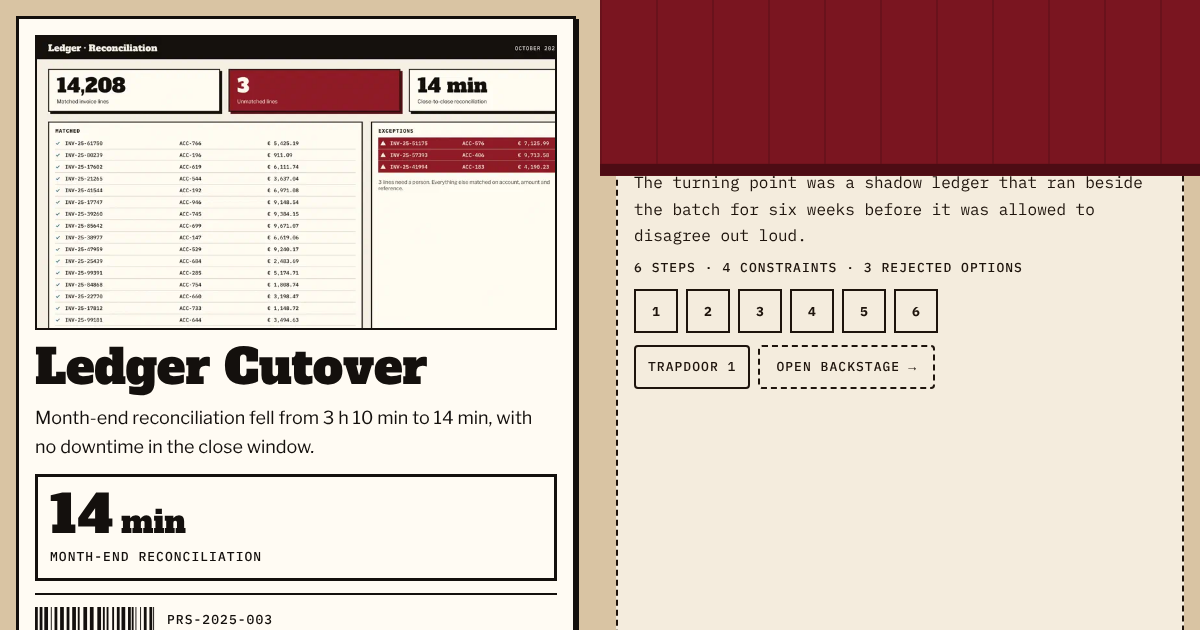
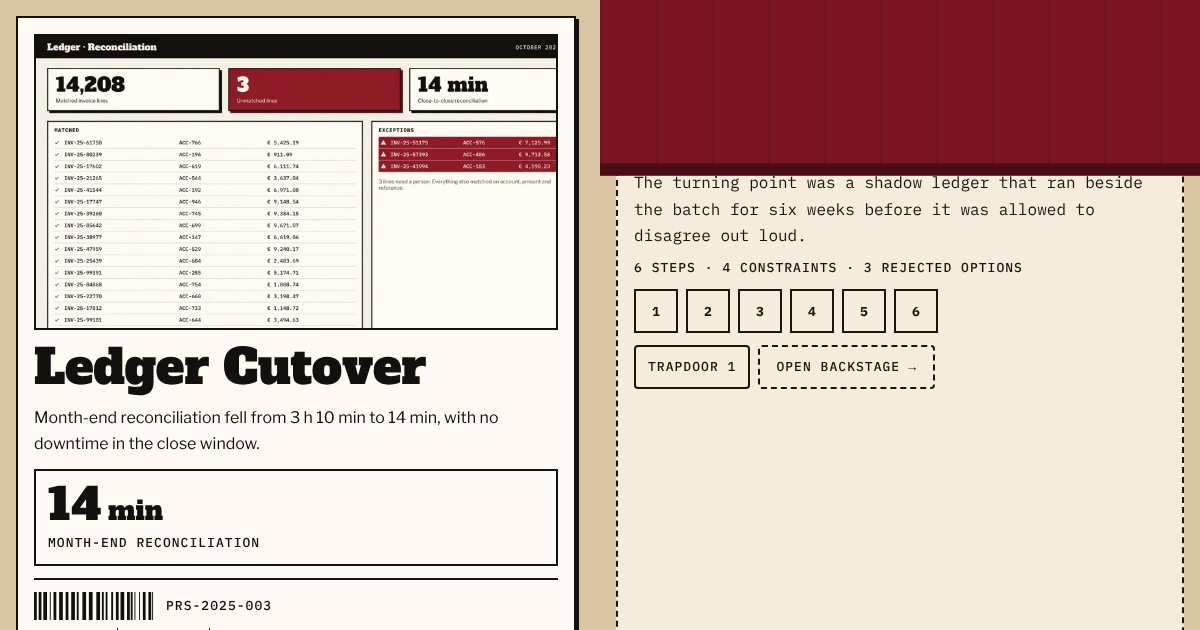
Use one size scale for both modes
Switching Performance to Backstage visibly rescaled the whole page. Two
causes: the Performance type scale, measure and 3 px card border were
larger, and the rule that sizes [data-mode] elements also matched
<html>, so the root font size (and every rem: container, spacing, type)
was 12.5% larger in Performance.

Both modes now share the Backstage sizes in tokens.css (type scale,
line heights, measure, 2 px card border); a mode changes typeface,
weight, tracking, colour, border style, radius and shadow only. The
root is no longer sized by mode, and ch-based widths are written in em
(0.6em = 1ch of IBM Plex Mono), so columns no longer change width with
the typeface. A computed-style comparison across five pages at 1280 and
360 px went from 183 size differences between modes to none, apart
from two that compare the trapdoor strip with the full report, which
are different elements.

Spec 6.3, 6.5, 6.9 and decision 28 record the revision; CLAUDE.md notes
the rule. The catalogue images are recaptured.

Claude-Session: https://claude.ai/code/session_01GjJEbgmqucpFjuE9hfsmtM

diff --git a/assets/css/tokens.css b/assets/css/tokens.css
@@ -146,49 +146,10 @@
   @media (min-width: 60rem) { :root { --gutter: 2rem; } }
   @media (min-width: 80rem) { :root { --gutter: 2.5rem; } }
 
-  /* ---------- Mode: Performance ---------- */
+  /* ---------- Size scale: one scale for both modes ---------- */
+  /* Switching mode changes typeface, colour, border style, radius and shadow, never size. */
   :root,
-  [data-mode="performance"] {
-    --font-display: var(--ff-slab);
-    --font-heading: var(--ff-sans);
-    --font-body: var(--ff-sans);
-    --font-label: var(--ff-mono);
-    --fw-display: 400;
-    --fw-heading: 800;
-    --fw-body: 400;
-    --track-display: -0.005em;
-    --lh-display: 1.04;
-    --lh-heading: 1.2;
-    --lh-body: 1.6;
-    --t-display-xl: clamp(2.5rem, 1.2rem + 5.2vw, 4.5rem);
-    --t-display-l: clamp(1.75rem, 1.1rem + 2vw, 2.5rem);
-    --t-heading: 1.375rem;
-    --t-body-l: 1.3125rem;
-    --t-body: 1.125rem;
-    --t-body-s: 0.9375rem;
-    --t-label: 0.8125rem;
-    --t-code: 0.9375rem;
-    --t-metric-xl: clamp(3rem, 1.8rem + 5vw, 6rem);
-    --t-metric-l: clamp(2.25rem, 1.5rem + 2.4vw, 3.25rem);
-    --measure: 66ch;
-    --radius: 0;
-    --card-border: var(--bw-3) solid var(--color-line);
-    --elev-0: none;
-    --elev-1: 3px 3px 0 0 var(--color-shadow);
-    --elev-2: 6px 6px 0 0 var(--color-shadow);
-    --elev-valance: 0 3px 0 0 var(--color-curtain-hem);
-  }
-
-  /* ---------- Mode: Backstage ---------- */
-  [data-mode="backstage"] {
-    --font-display: var(--ff-mono);
-    --font-heading: var(--ff-mono);
-    --font-body: var(--ff-mono);
-    --font-label: var(--ff-mono);
-    --fw-display: 700;
-    --fw-heading: 700;
-    --fw-body: 400;
-    --track-display: -0.02em;
+  [data-mode] {
     --lh-display: 1.12;
     --lh-heading: 1.3;
     --lh-body: 1.65;
@@ -202,13 +163,42 @@
     --t-code: 0.9375rem;
     --t-metric-xl: clamp(2.5rem, 1.5rem + 4vw, 4.5rem);
     --t-metric-l: clamp(2rem, 1.4rem + 2vw, 2.75rem);
-    --measure: 72ch;
+    --measure: 43.2em; /* 72ch of IBM Plex Mono, so the column is the same width in both typefaces */
+    --elev-0: none;
+    --elev-valance: 0 3px 0 0 var(--color-curtain-hem);
+  }
+
+  /* ---------- Mode: Performance ---------- */
+  :root,
+  [data-mode="performance"] {
+    --font-display: var(--ff-slab);
+    --font-heading: var(--ff-sans);
+    --font-body: var(--ff-sans);
+    --font-label: var(--ff-mono);
+    --fw-display: 400;
+    --fw-heading: 800;
+    --fw-body: 400;
+    --track-display: -0.005em;
+    --radius: 0;
+    --card-border: var(--bw-2) solid var(--color-line);
+    --elev-1: 3px 3px 0 0 var(--color-shadow);
+    --elev-2: 6px 6px 0 0 var(--color-shadow);
+  }
+
+  /* ---------- Mode: Backstage ---------- */
+  [data-mode="backstage"] {
+    --font-display: var(--ff-mono);
+    --font-heading: var(--ff-mono);
+    --font-body: var(--ff-mono);
+    --font-label: var(--ff-mono);
+    --fw-display: 700;
+    --fw-heading: 700;
+    --fw-body: 400;
+    --track-display: -0.02em;
     --radius: 4px;
     --card-border: var(--bw-2) dashed var(--color-line);
-    --elev-0: none;
     --elev-1: none;
     --elev-2: none;
-    --elev-valance: 0 3px 0 0 var(--color-curtain-hem);
   }
 
   /* ---------- Reduced motion ---------- */

diff --git a/assets/css/pages/home.css b/assets/css/pages/home.css
@@ -1,6 +1,6 @@
 .intro{display:grid;gap:var(--space-5);padding-block:var(--space-7) var(--space-5)}
-.intro__headline{max-width:14ch}
-.intro__lede{margin-top:var(--space-4);max-width:52ch}
+.intro__headline{max-width:8.4em}
+.intro__lede{margin-top:var(--space-4);max-width:31.2em}
 .intro__key{display:none}
 .intro__keyline{margin-top:var(--space-4);display:flex;flex-wrap:wrap;gap:var(--space-2) var(--space-4)}
 .intro__keyline>span{display:inline-flex;align-items:center;gap:var(--space-2)}
@@ -11,7 +11,7 @@
 .programme{margin-block:var(--space-7)}
 .stage-note{margin-block:var(--space-8)}
 .stage-note__grid{display:grid;gap:var(--space-6);margin-top:var(--space-3)}
-.stage-note__lede{margin-bottom:var(--space-3);max-width:24ch}
+.stage-note__lede{margin-bottom:var(--space-3);max-width:14.4em}
 .stage-note .contact{margin:0}
 @media (min-width:60rem){
   .intro{grid-template-columns:8fr 4fr;column-gap:var(--space-8);align-items:start}

diff --git a/assets/css/components/stage.css b/assets/css/components/stage.css
@@ -69,7 +69,7 @@
   html:not(.js) .drape-wrap{display:none}
   .drape{height:100%;display:flex;align-items:center;justify-content:center;padding:var(--space-6);pointer-events:auto;cursor:pointer;background:var(--color-curtain) repeating-linear-gradient(90deg,rgba(0,0,0,.14) 0 2px,transparent 2px 56px);color:var(--color-on-curtain);border-bottom:12px solid var(--color-curtain-hem);transform:translateY(var(--curtain-lift,0%))}
   .drape.is-moving{will-change:transform}
-  .drape__text{max-width:22ch;text-align:center}
+  .drape__text{max-width:13.2em;text-align:center}
   html.js[data-mode=performance]{--curtain-lift:0%}
   html.js[data-mode=backstage]{--curtain-lift:calc(-100% + 12px)}
   html.js[data-mode=backstage] .drape{pointer-events:none}

diff --git a/assets/css/base.css b/assets/css/base.css
@@ -1,5 +1,5 @@
 html{scroll-padding-top:4rem;scroll-behavior:auto;background:var(--color-bg)}
-body,[data-mode]{color:var(--color-fg);font-family:var(--font-body);font-weight:var(--fw-body);font-size:var(--t-body);line-height:var(--lh-body)}
+body,[data-mode]:not(:root){color:var(--color-fg);font-family:var(--font-body);font-weight:var(--fw-body);font-size:var(--t-body);line-height:var(--lh-body)}
 body{background:var(--color-bg);min-height:100vh;display:flex;flex-direction:column;font-kerning:normal}
 main{flex:1 0 auto;outline:0}
 h1,h2,h3,h4{font-family:var(--font-heading);font-weight:var(--fw-heading);line-height:var(--lh-heading);font-size:var(--t-heading)}

diff --git a/assets/css/pages/case.css b/assets/css/pages/case.css
@@ -7,7 +7,7 @@ html.js[data-mode=performance] .trapdoor-strip,.home-strip .trapdoor-strip{displ
 .case-head{padding-block:var(--space-6) var(--space-5)}
 .case-head__top{display:flex;flex-wrap:wrap;align-items:center;gap:var(--space-2) var(--space-5)}
 .case-head__back{display:inline-flex;align-items:center;gap:var(--space-2);min-height:var(--target);color:var(--color-fg);text-decoration:none}
-.case-head__title{margin-top:var(--space-4);max-width:16ch}
+.case-head__title{margin-top:var(--space-4);max-width:9.6em}
 .case-head__summary{margin-top:var(--space-4);max-width:var(--measure)}
 .case__barcode{margin-block:var(--space-5)}
 .layer{scroll-margin-top:4rem}

diff --git a/assets/css/layout.css b/assets/css/layout.css
@@ -6,8 +6,8 @@ html.js .no-js-only{display:none!important}
 .skip-link:focus{transform:none}
 .block{margin-block:var(--space-7)}
 .page-head{padding-block:var(--space-7) var(--space-6)}
-.page-head .lede{margin-top:var(--space-4);max-width:52ch}
-.page-title{max-width:20ch}
+.page-head .lede{margin-top:var(--space-4);max-width:31.2em}
+.page-title{max-width:12em}
 .prose-page{padding-block:var(--space-7)}
 .prose-page .prose{margin-top:var(--space-6)}
 .grid{display:grid;gap:var(--space-6)}

diff --git a/assets/css/pages/about.css b/assets/css/pages/about.css
@@ -1,5 +1,5 @@
 .about{display:grid;gap:var(--space-7);padding-block:var(--space-7)}
-.about__statement{max-width:18ch}
+.about__statement{max-width:10.8em}
 .about__byline{display:flex;align-items:center;gap:var(--space-4);margin-top:var(--space-5)}
 .about__portrait{width:96px;height:96px;border:var(--card-border)}
 .method{list-style:none;padding:0;display:grid;gap:var(--space-4);margin-top:var(--space-3)}

diff --git a/stitch_markdown_prestige_system_designer/prestige_design.md b/stitch_markdown_prestige_system_designer/prestige_design.md
@@ -1526,20 +1526,22 @@ The label face is identical in both modes on purpose: it is the printer on the s
 
 **Scale** (fluid values are `clamp(min, preferred, max)`; the preferred part scales between 360 and about 1015 px of viewport)
 
-| Role | Token | Performance | Backstage | Used for |
-|---|---|---|---|---|
-| Display XL | `--t-display-xl` | `clamp(2.5rem, 1.2rem + 5.2vw, 4.5rem)` (40 → 72 px), lh 1.04, tracking −0.005 em | `clamp(1.75rem, 1rem + 2.6vw, 2.75rem)` (28 → 44 px), lh 1.12, tracking −0.02 em | H1 |
-| Display L | `--t-display-l` | `clamp(1.75rem, 1.1rem + 2vw, 2.5rem)` (28 → 40 px), lh 1.1 | `clamp(1.375rem, 1rem + 1.2vw, 1.75rem)` (22 → 28 px), lh 1.2 | H2 |
-| Heading | `--t-heading` | 1.375 rem (22 px), lh 1.2 | 1.125 rem (18 px), lh 1.3 | H3, step titles |
-| Body large | `--t-body-l` | 1.3125 rem (21 px), lh 1.5 | 1.125 rem (18 px), lh 1.55 | Lede, summary |
-| Body | `--t-body` | 1.125 rem (18 px), lh 1.6 | 1 rem (16 px), lh 1.65 | Running text |
-| Body small | `--t-body-s` | 0.9375 rem (15 px), lh 1.5 | 0.875 rem (14 px), lh 1.55 | Captions, context |
-| Label | `--t-label` | 0.8125 rem (13 px), lh 1.3 | 0.8125 rem (13 px), lh 1.3 | Chips, field labels, step codes, nav |
-| Metric XL | `--t-metric-xl` | `clamp(3rem, 1.8rem + 5vw, 6rem)` (48 → 96 px), lh 1 | `clamp(2.5rem, 1.5rem + 4vw, 4.5rem)` (40 → 72 px), lh 1 | First result metric |
-| Metric L | `--t-metric-l` | `clamp(2.25rem, 1.5rem + 2.4vw, 3.25rem)` (36 → 52 px), lh 1 | `clamp(2rem, 1.4rem + 2vw, 2.75rem)` (32 → 44 px), lh 1 | Other metrics |
-| Code | `--t-code` | 0.9375 rem (15 px), lh 1.55 | 0.9375 rem (15 px), lh 1.55 | Code blocks, inline code |
+| Role | Token | Both modes | Used for |
+|---|---|---|---|
+| Display XL | `--t-display-xl` | `clamp(1.75rem, 1rem + 2.6vw, 2.75rem)` (28 → 44 px), lh 1.12 | H1 |
+| Display L | `--t-display-l` | `clamp(1.375rem, 1rem + 1.2vw, 1.75rem)` (22 → 28 px), lh 1.12 | H2 |
+| Heading | `--t-heading` | 1.125 rem (18 px), lh 1.3 | H3, step titles |
+| Body large | `--t-body-l` | 1.125 rem (18 px), lh 1.5 | Lede, summary |
+| Body | `--t-body` | 1 rem (16 px), lh 1.65 | Running text |
+| Body small | `--t-body-s` | 0.875 rem (14 px), lh 1.5 | Captions, context |
+| Label | `--t-label` | 0.8125 rem (13 px), lh 1.3 | Chips, field labels, step codes, nav |
+| Metric XL | `--t-metric-xl` | `clamp(2.5rem, 1.5rem + 4vw, 4.5rem)` (40 → 72 px), lh 1 | First result metric |
+| Metric L | `--t-metric-l` | `clamp(2rem, 1.4rem + 2vw, 2.75rem)` (32 → 44 px), lh 1 | Other metrics |
+| Code | `--t-code` | 0.9375 rem (15 px), lh 1.55 | Code blocks, inline code |
 
-- Measure: 66 ch in Performance, 72 ch in Backstage; both land near 680 to 690 px, so switching mode does not reflow columns.
+**One size scale (revised 2026-10-06).** Both modes use the Backstage scale above, so switching mode never changes the size of anything: type, line heights, measure, container and border widths stay put. A mode changes typeface, weight, tracking, colour, border style, radius and shadow only. The root font size is never set by mode (`[data-mode]` sizing excludes `:root`), so `rem` values are identical in both modes. Widths that would depend on a typeface's `ch` are written in `em` (0.6 em = 1 ch of IBM Plex Mono).
+
+- Measure: `43.2em` in both modes (72 ch of IBM Plex Mono, about 690 px of body text), so switching mode does not change the column width.
 - Numerals in metrics, barcode cells, refs and tables use `font-variant-numeric: tabular-nums`.
 - No text below 13 px; no italic body text; emphasis is weight, not italic.
 - Text spacing overrides (WCAG 1.4.12) must not break layout: no fixed heights on text containers; step headers use `min-height`, never `height`.
@@ -1571,7 +1573,7 @@ Block rhythm: `--space-7` below 960 px, `--space-8` from 960 px.
 | `--bw-2` | 2 px | Backstage panel borders, underlines, error panels |
 | `--bw-3` | 3 px | Performance card borders, focus ring, current-page underline |
 | `--bw-4` | 4 px | Diff gutter border, hazard-strip edge |
-| `--card-border` (Performance) | `3px solid var(--color-line)` | Stage faces, metric blocks, result block |
+| `--card-border` (Performance) | `2px solid var(--color-line)` | Stage faces, metric blocks, result block |
 | `--card-border` (Backstage) | `2px dashed var(--color-line)` | Steps, labels, panels (a perforated label edge) |
 | `--radius` (Performance) | `0` | Printed bills have square corners |
 | `--radius` (Backstage) | `4px` | Labels have slightly softened corners |
@@ -1803,49 +1805,10 @@ Media queries cannot read custom properties, so the stylesheet uses the literal 
   @media (min-width: 60rem) { :root { --gutter: 2rem; } }
   @media (min-width: 80rem) { :root { --gutter: 2.5rem; } }
 
-  /* ---------- Mode: Performance ---------- */
+  /* ---------- Size scale: one scale for both modes ---------- */
+  /* Switching mode changes typeface, colour, border style, radius and shadow, never size. */
   :root,
-  [data-mode="performance"] {
-    --font-display: var(--ff-slab);
-    --font-heading: var(--ff-sans);
-    --font-body: var(--ff-sans);
-    --font-label: var(--ff-mono);
-    --fw-display: 400;
-    --fw-heading: 800;
-    --fw-body: 400;
-    --track-display: -0.005em;
-    --lh-display: 1.04;
-    --lh-heading: 1.2;
-    --lh-body: 1.6;
-    --t-display-xl: clamp(2.5rem, 1.2rem + 5.2vw, 4.5rem);
-    --t-display-l: clamp(1.75rem, 1.1rem + 2vw, 2.5rem);
-    --t-heading: 1.375rem;
-    --t-body-l: 1.3125rem;
-    --t-body: 1.125rem;
-    --t-body-s: 0.9375rem;
-    --t-label: 0.8125rem;
-    --t-code: 0.9375rem;
-    --t-metric-xl: clamp(3rem, 1.8rem + 5vw, 6rem);
-    --t-metric-l: clamp(2.25rem, 1.5rem + 2.4vw, 3.25rem);
-    --measure: 66ch;
-    --radius: 0;
-    --card-border: var(--bw-3) solid var(--color-line);
-    --elev-0: none;
-    --elev-1: 3px 3px 0 0 var(--color-shadow);
-    --elev-2: 6px 6px 0 0 var(--color-shadow);
-    --elev-valance: 0 3px 0 0 var(--color-curtain-hem);
-  }
-
-  /* ---------- Mode: Backstage ---------- */
-  [data-mode="backstage"] {
-    --font-display: var(--ff-mono);
-    --font-heading: var(--ff-mono);
-    --font-body: var(--ff-mono);
-    --font-label: var(--ff-mono);
-    --fw-display: 700;
-    --fw-heading: 700;
-    --fw-body: 400;
-    --track-display: -0.02em;
+  [data-mode] {
     --lh-display: 1.12;
     --lh-heading: 1.3;
     --lh-body: 1.65;
@@ -1859,13 +1822,42 @@ Media queries cannot read custom properties, so the stylesheet uses the literal 
     --t-code: 0.9375rem;
     --t-metric-xl: clamp(2.5rem, 1.5rem + 4vw, 4.5rem);
     --t-metric-l: clamp(2rem, 1.4rem + 2vw, 2.75rem);
-    --measure: 72ch;
+    --measure: 43.2em; /* 72ch of IBM Plex Mono, so the column is the same width in both typefaces */
+    --elev-0: none;
+    --elev-valance: 0 3px 0 0 var(--color-curtain-hem);
+  }
+
+  /* ---------- Mode: Performance ---------- */
+  :root,
+  [data-mode="performance"] {
+    --font-display: var(--ff-slab);
+    --font-heading: var(--ff-sans);
+    --font-body: var(--ff-sans);
+    --font-label: var(--ff-mono);
+    --fw-display: 400;
+    --fw-heading: 800;
+    --fw-body: 400;
+    --track-display: -0.005em;
+    --radius: 0;
+    --card-border: var(--bw-2) solid var(--color-line);
+    --elev-1: 3px 3px 0 0 var(--color-shadow);
+    --elev-2: 6px 6px 0 0 var(--color-shadow);
+  }
+
+  /* ---------- Mode: Backstage ---------- */
+  [data-mode="backstage"] {
+    --font-display: var(--ff-mono);
+    --font-heading: var(--ff-mono);
+    --font-body: var(--ff-mono);
+    --font-label: var(--ff-mono);
+    --fw-display: 700;
+    --fw-heading: 700;
+    --fw-body: 400;
+    --track-display: -0.02em;
     --radius: 4px;
     --card-border: var(--bw-2) dashed var(--color-line);
-    --elev-0: none;
     --elev-1: none;
     --elev-2: none;
-    --elev-valance: 0 3px 0 0 var(--color-curtain-hem);
   }
 
   /* ---------- Reduced motion ---------- */
@@ -3424,7 +3416,7 @@ Every judgment call made while writing this specification is recorded here so th
 25. **Every image is WebP with a JPEG fallback.** `lib/img.html` writes a WebP `srcset` and a JPEG `<img src>` for every image, so the page works in any browser and in link-preview scrapers that do not read WebP. AVIF is not produced because encoder availability and build time vary by installation.
 26. **No gradients, blur, glow, texture or parallax.** Pleat lines and the hazard stripe are hard-stop `repeating-linear-gradient`s. Depth is a hard-offset shadow (6 px, no blur). This is a style decision and an anti-pattern rule (13) at the same time.
 27. **Cover crop is 16:9 on the stage and 1200 × 630 on the case page.** The stage covers are 568 × 320 (headliner) and 200 × 112 (others); the case-study cover is the Open Graph ratio so the same file serves as the social image.
-28. **Typography is fluid between 360 and about 1015 px and fixed above.** The headliner title is 48 px at desktop; other stage titles are 32 px (28 px at 360 px). Display XL on the home page is 72 px in Performance and 44 px in Backstage, because the Backstage face is a monospace and 72 px mono would not fit the 8-column intro.
+28. **Typography is fluid between 360 and about 1015 px and fixed above.** The headliner title is 48 px at desktop; other stage titles are 32 px (28 px at 360 px). Display XL reaches 44 px in both modes. (Revised 2026-10-06: Performance originally reached 72 px; both modes now share the Backstage scale so a mode switch never resizes the page. See 6.3.)
 29. **Home page chrome follows the mode.** In Backstage mode the header, valance, intro and footer adopt the Backstage skin; the left (Performance) column of the stage keeps the Performance skin so a visitor can still see what the front of the curtain looks like. The catalogue screenshot is captured in this state.
 
 ### 15.4 Interaction and accessibility

diff --git a/CLAUDE.md b/CLAUDE.md
@@ -37,7 +37,7 @@ See the `issue-to-case-study` and `incident-to-trapdoor` skills in `.claude/skil
 
 ## Implementation notes
 
-Templates use the Hugo 0.146 layout system (`layouts/_partials/`, `layouts/_shortcodes/`, `layouts/_markup/`). Every user-visible string lives in `i18n/en.toml`. Only `assets/css/tokens.css` may contain colour values. Content is never put in JavaScript, and nothing is hidden except under `html.js` gating.
+Templates use the Hugo 0.146 layout system (`layouts/_partials/`, `layouts/_shortcodes/`, `layouts/_markup/`). Every user-visible string lives in `i18n/en.toml`. Only `assets/css/tokens.css` may contain colour values. Both modes share one size scale (the Backstage values in `tokens.css`): a mode changes typeface, colour, border style, radius and shadow, never a size. Do not size `:root` by mode, and write font-relative widths in `em`, not `ch`. Content is never put in JavaScript, and nothing is hidden except under `html.js` gating.
 
 Hugo reserves `kind` as page metadata: a top-level `kind:` in a step file is an error on Hugo 0.150 and deprecated on later releases. Step files therefore write the design spec's step `kind` under `params:` (`params: { kind: problem }`); templates read it as `.Params.kind`.
 
